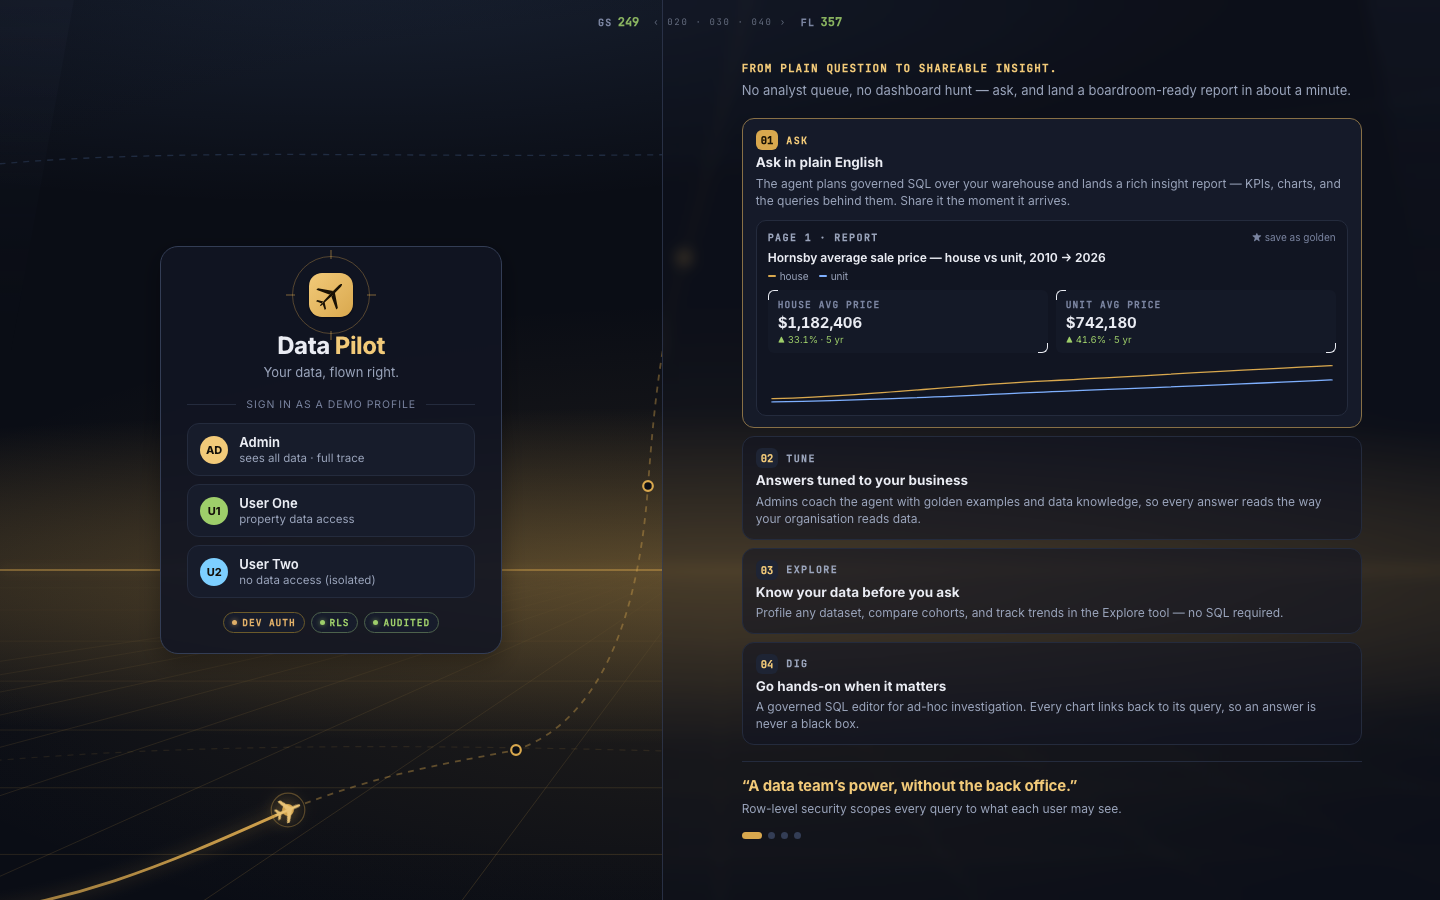
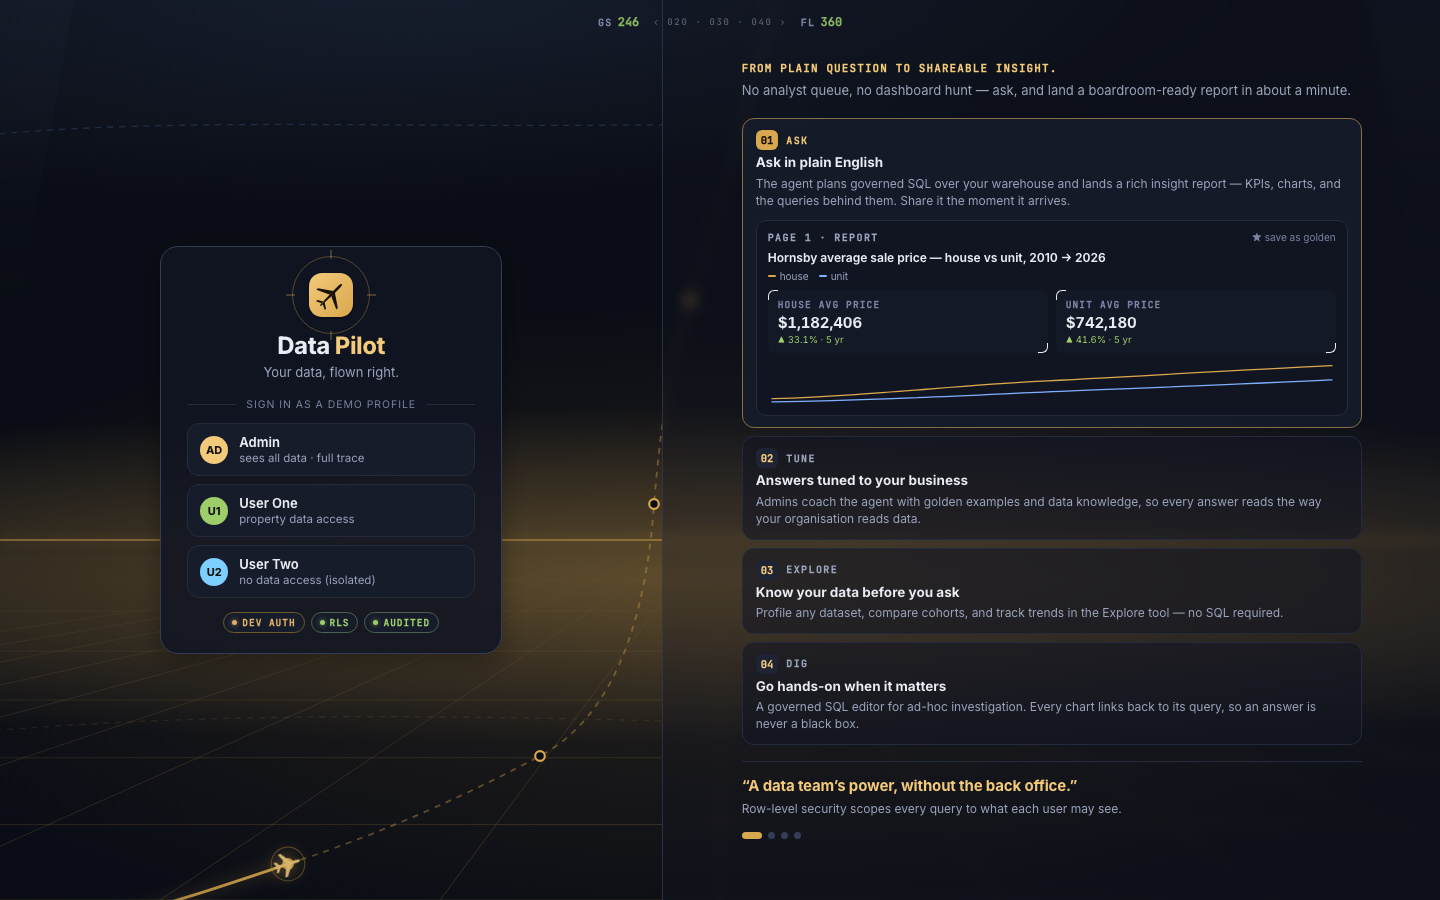
fix(s25): anchor the canopy to the ground and re-tune the route geometry
Two related bugs found by measuring the scene across the real viewport range
rather than eyeballing one size.

1. The scene was cropped from its centre (xMidYMid slice). On a short, wide
   laptop (1440x700) that pushes the run-in — waypoint 1 and the Sortie parked
   on it — off the bottom edge, so the story's opening slide showed no
   aircraft at all. Anchoring to the ground (xMidYMax) crops the empty upper
   sky instead, which costs nothing. It also makes vertical positions stable
   relative to the bottom edge across window heights.

2. The sign-in card is centred in CSS pixels while the route lives in a scaled
   viewBox, so the card's footprint in scene coordinates grows as the window
   gets shorter. The route was tuned at 900px tall and ran behind the card at
   700px. Waypoints moved down and right accordingly.

Verified by measurement, not by eye: a probe walks 1000x800, 1280x720,
1440x700, 1440x900, 1680x1050, 1920x1080 and 2560x1440 and asserts every
waypoint dot is on screen, clear of the sign-in card, and not behind the story
column. All seven pass, and the Sortie tracks waypoint 1 to within a few px at
every size.

Baselines and login .lavish shots regenerated; visual + axe re-run clean.

diff --git a/frontend/src/app/Login.tsx b/frontend/src/app/Login.tsx
@@ -52,8 +52,8 @@ const HORIZON_Y = 500;
  *  and the story column keeps all four lit waypoints — and the plane — on
  *  screen from 1000px up. */
 const ROUTE_D =
-  "M-60 790 C 60 782 150 740 240 700 C 320 668 380 660 430 650 " +
-  "C 500 626 532 540 540 430 C 546 348 553 298 570 240 C 592 166 616 62 640 -60";
+  "M-60 840 C 60 832 150 800 240 770 C 320 744 390 712 450 680 " +
+  "C 510 648 538 570 545 470 C 551 400 558 350 575 300 C 596 240 625 130 650 40";
 
 /** Crossing traffic — other aircraft, other directions, other speeds. The
  *  cap is three aircraft total (hero + these two); hierarchy is held by size
@@ -97,7 +97,7 @@ const WAYPOINTS: Waypoint[] = [
     key: "ask",
     label: "ASK",
     x: 240,
-    y: 700,
+    y: 770,
     title: "Ask in plain English",
     story:
       "The agent plans governed SQL over your warehouse and lands a rich insight report — KPIs, charts, and the queries behind them. Share it the moment it arrives.",
@@ -105,8 +105,8 @@ const WAYPOINTS: Waypoint[] = [
   {
     key: "tune",
     label: "TUNE",
-    x: 430,
-    y: 650,
+    x: 450,
+    y: 680,
     title: "Answers tuned to your business",
     story:
       "Admins coach the agent with golden examples and data knowledge, so every answer reads the way your organisation reads data.",
@@ -114,8 +114,8 @@ const WAYPOINTS: Waypoint[] = [
   {
     key: "explore",
     label: "EXPLORE",
-    x: 540,
-    y: 430,
+    x: 545,
+    y: 470,
     title: "Know your data before you ask",
     story:
       "Profile any dataset, compare cohorts, and track trends in the Explore tool — no SQL required.",
@@ -123,8 +123,8 @@ const WAYPOINTS: Waypoint[] = [
   {
     key: "dig",
     label: "DIG",
-    x: 570,
-    y: 240,
+    x: 575,
+    y: 300,
     title: "Go hands-on when it matters",
     story:
       "A governed SQL editor for ad-hoc investigation. Every chart links back to its query, so an answer is never a black box.",
@@ -147,10 +147,15 @@ function Canopy({ active, reduced }: { active: number; reduced: boolean }) {
   return (
     <div className="canopy" aria-hidden="true">
       <div className="canopy-sky" />
+      {/* yMax, not yMid: the scene is anchored to the ground. On a short, wide
+          laptop (1440×700) a centred crop pushes the run-in — waypoint 1 and
+          the Sortie parked on it — off the bottom edge, so the story's first
+          slide has no visible aircraft. Cropping the empty upper sky instead
+          costs nothing and keeps the whole route on screen. */}
       <svg
         className="canopy-svg"
         viewBox={`0 0 ${SCENE_W} ${SCENE_H}`}
-        preserveAspectRatio="xMidYMid slice"
+        preserveAspectRatio="xMidYMax slice"
         aria-hidden="true"
       >
         <defs>